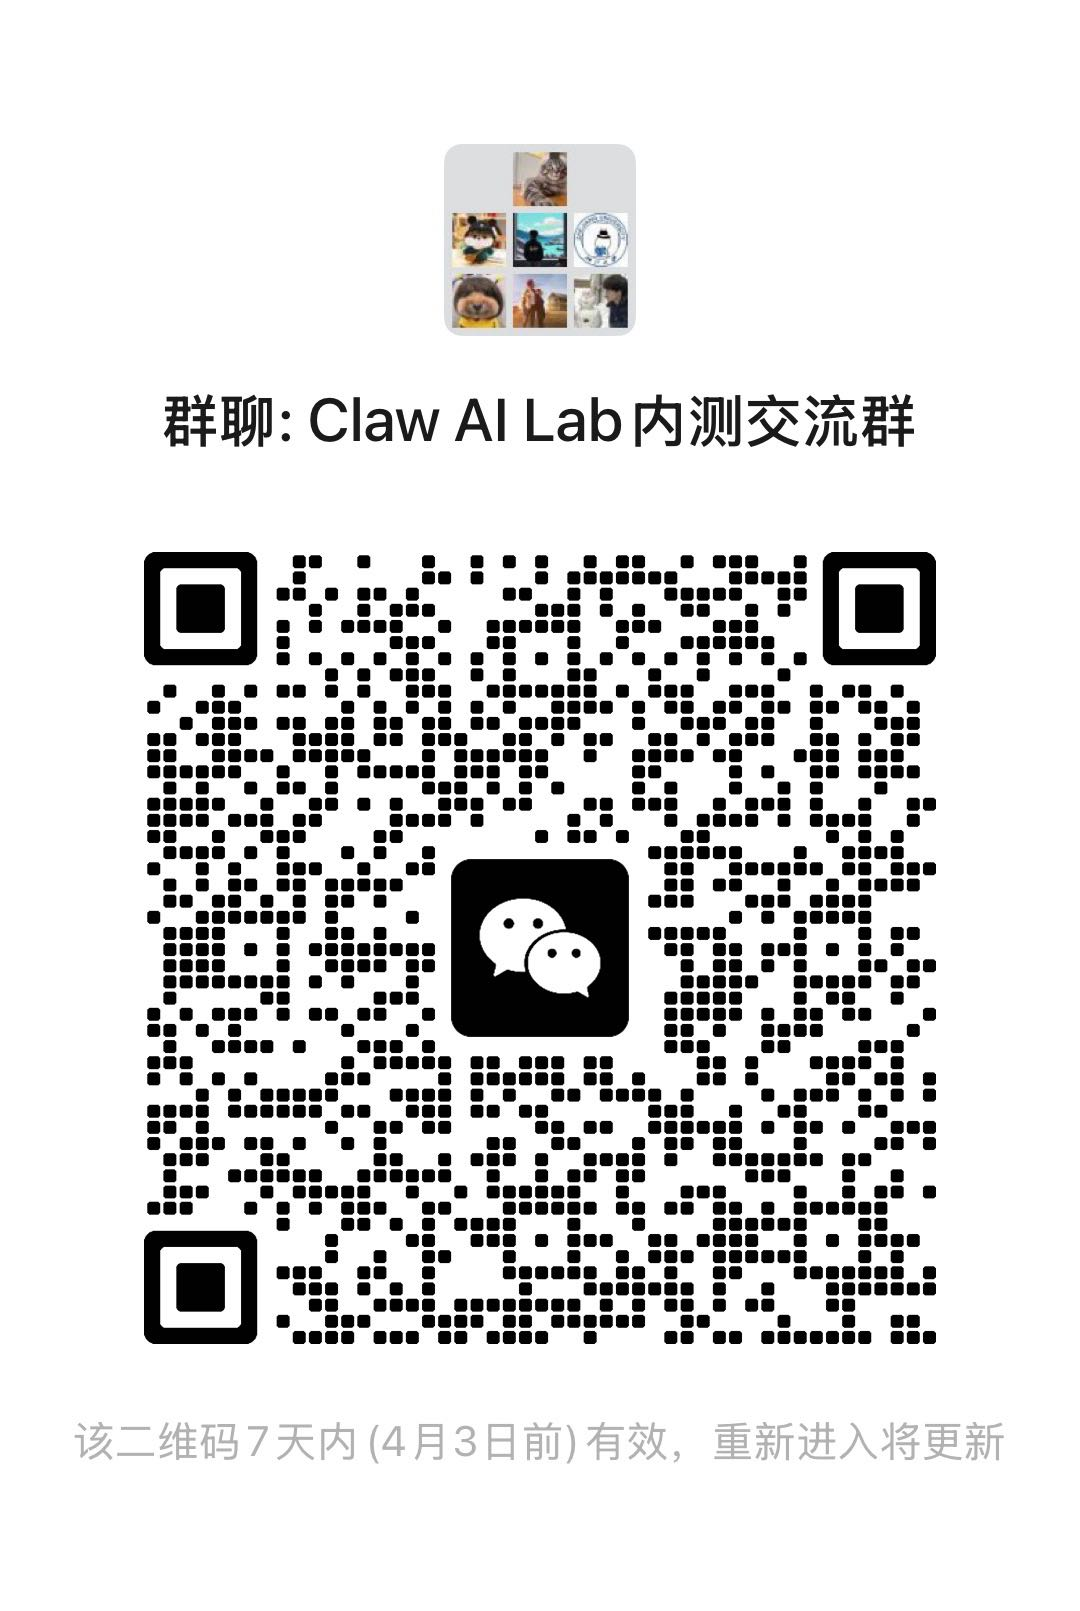
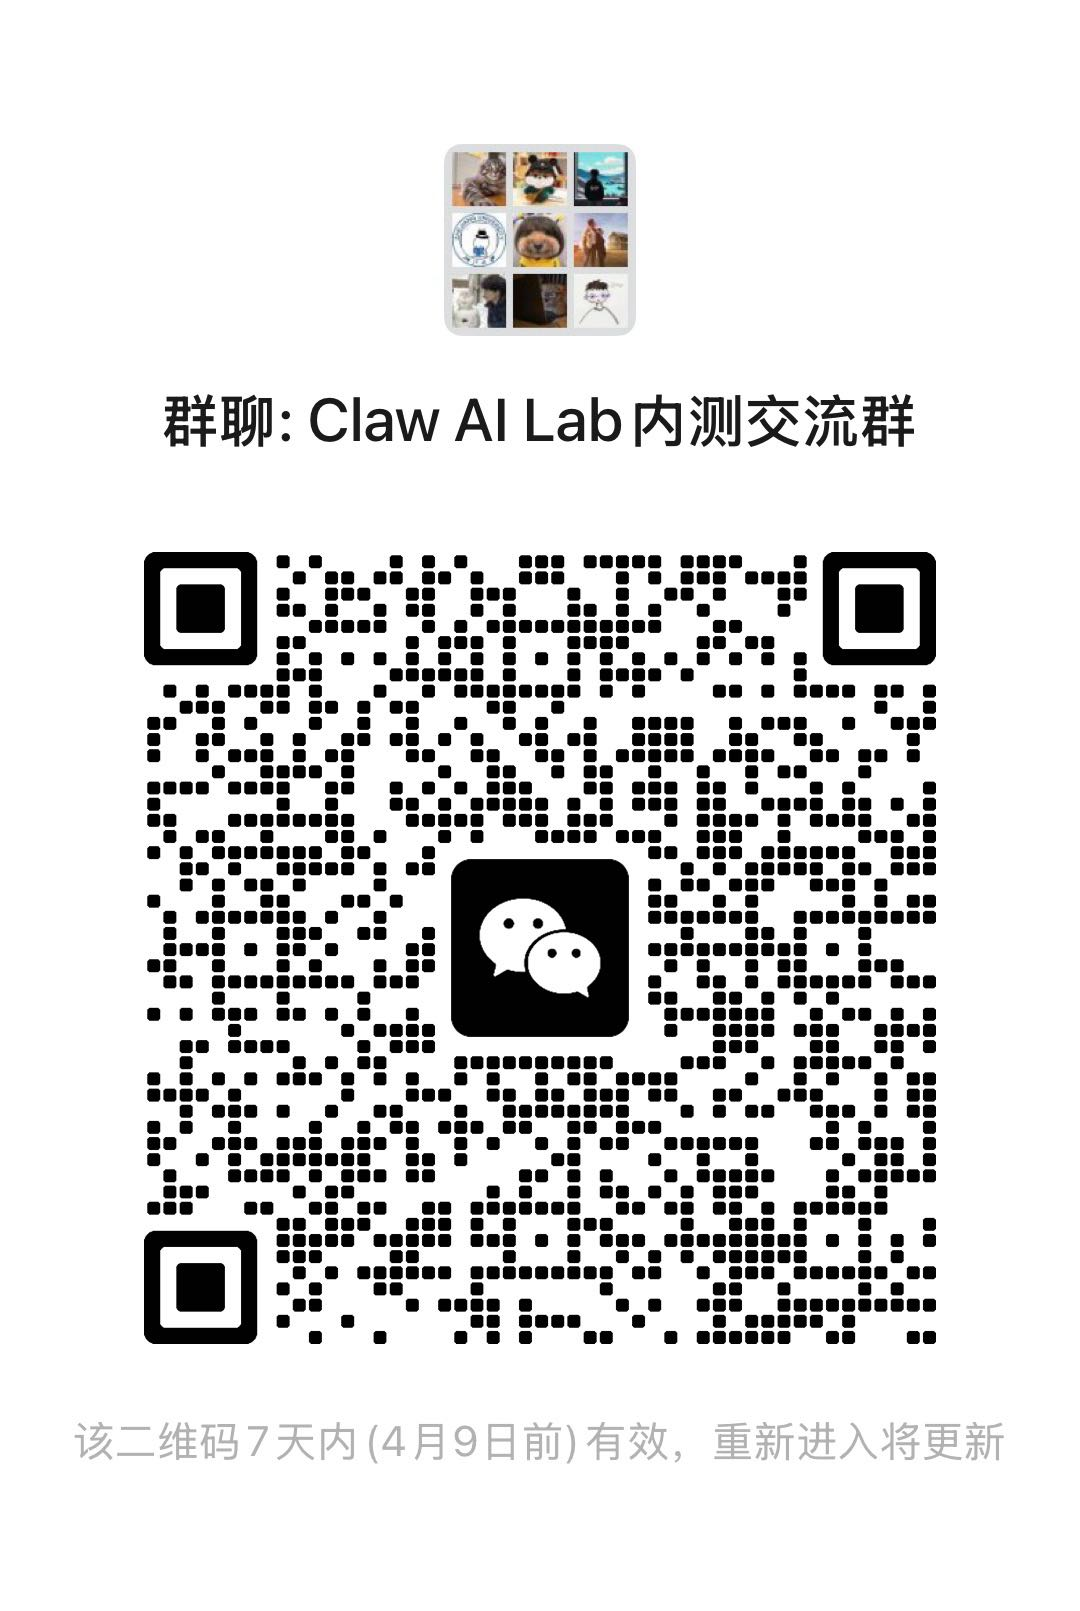
chore: update showcase docs, config base_url, and Group.png
Made-with: Cursor

Changed region(s): [[0.1222, 0.3414, 0.8861, 0.838], [0.3972, 0.0931, 0.5806, 0.2173], [0.5806, 0.869, 0.6111, 0.9001]]

diff --git a/assets/showcase/showcase-reproduce-phycustom-on-flux.md b/assets/showcase/showcase-reproduce-phycustom-on-flux.md
@@ -147,7 +147,11 @@ discovery_aligned_endpoint_physical_transfer_error = 1.0 - F.cosine_similarity(g
 
 ## 💻 Code
 
-[👉 Generated `main.py`](reproduce-phycustom/main.py)
+👉 Generated [`main.py`](reproduce-phycustom/main.py)
+
+---
+
+**Reference:** Wu et al., *PhyCustom: Towards Realistic Physical Customization in Text-to-Image Generation*, arXiv [2512.02794](https://arxiv.org/abs/2512.02794), 2025.
 
 ---
 

diff --git a/assets/showcase/showcase-quantify-hallucination.md b/assets/showcase/showcase-quantify-hallucination.md
@@ -112,7 +112,7 @@ The generated experiment code already includes:
 - Condition classes for the full planned baseline / proposed-method set
 - Output writing for `summary.json`, `benchmark_card.json`, representative GIFs, and frame grids
 
-[👉 Generated `main.py`](quantifying-hallucination/main.py)
+👉 Generated [`main.py`](quantifying-hallucination/main.py)
 
 ---
 
